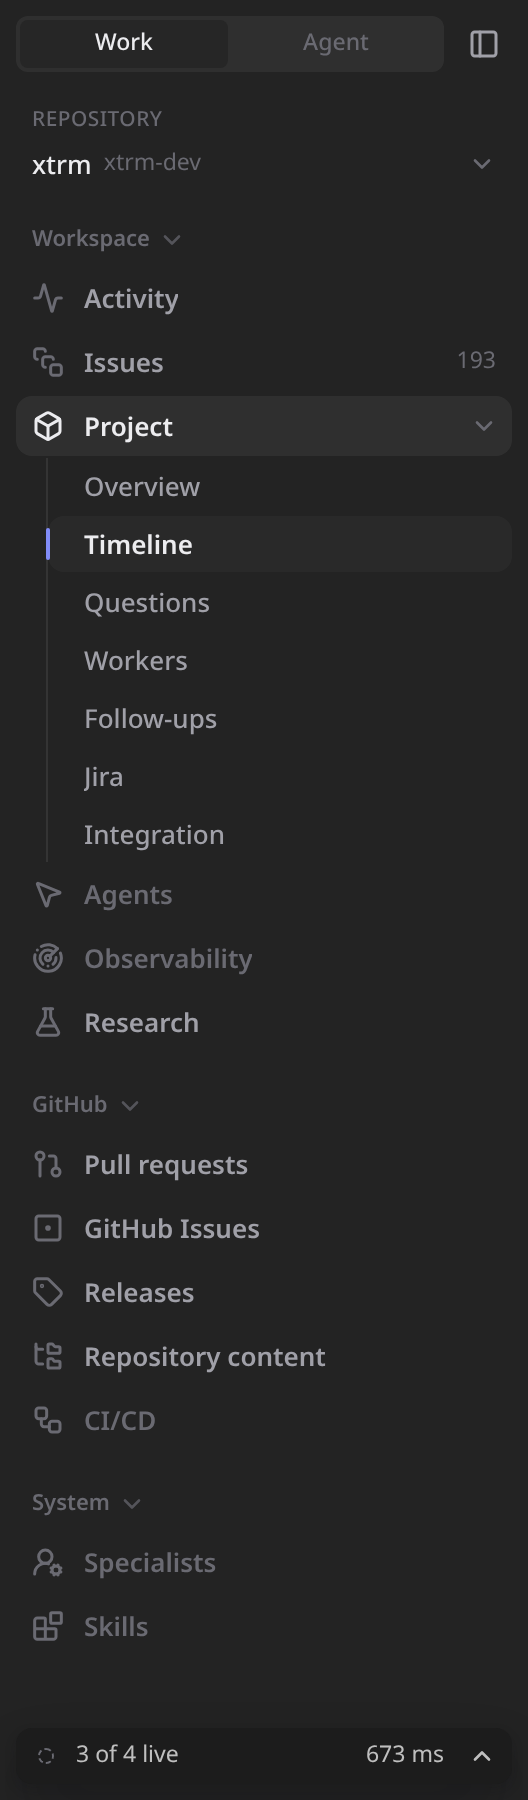
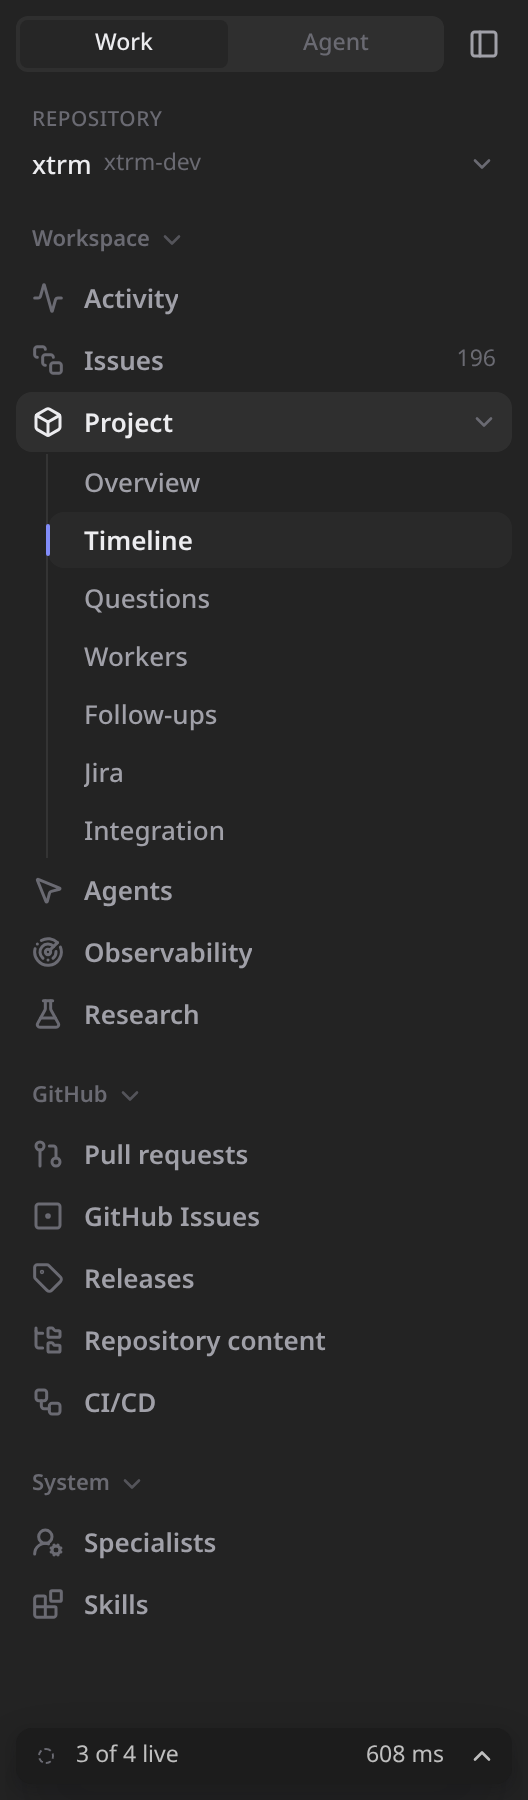
fix(xtrm-app): deferred rows keep readable ink at both rail levels (XTRM-854)

diff --git a/packages/xtrm-app/src/ui/sidebar.tsx b/packages/xtrm-app/src/ui/sidebar.tsx
@@ -62,6 +62,8 @@ export function SidebarRow({
       selected={selected}
       onActivate={onActivate}
       actions={actions}
+      // Deferred is a fact for the surface, not a fainter ink: ink-faint fails 4.5:1 at 13px on the sidebar.
+      data-deferred={deferred || undefined}
       // ArrowRight expands and ArrowLeft collapses, the same keys as the issue-tree rows (§4.1).
       onKeyDown={
         onToggle
@@ -79,7 +81,7 @@ export function SidebarRow({
       className={cx("h-[30px]", selected ? "bg-pressed text-ink" : "text-ink-muted")}
     >
       <Icon name={icon} size="nav" className={selected ? "text-ink" : "text-ink-faint"} />
-      <span className={cx("truncate font-semibold", deferred && "text-ink-faint")}>{label}</span>
+      <span className="truncate font-semibold">{label}</span>
       {status && <StatusDot tone={status.tone} label={status.label} />}
       {count != null && <span className={cx("text-xs text-ink-faint tabular group-hover/row:hidden group-focus-within/row:hidden", !onToggle && "ml-auto")}>{count}</span>}
       {onToggle && (

diff --git a/packages/xtrm-app/src/ui/sidebar.test.tsx b/packages/xtrm-app/src/ui/sidebar.test.tsx
@@ -88,11 +88,13 @@ describe("SidebarRow", () => {
     expect(onToggle).toHaveBeenCalledTimes(2);
   });
 
-  it("dims deferred rows without changing their weight", () => {
+  it("keeps deferred rows at readable ink and marks them with data-deferred", () => {
     render(<SidebarRow icon="ci" label="CI/CD" deferred onActivate={() => {}} />);
     const label = screen.getByText("CI/CD");
-    expect(label.className).toContain("text-ink-faint");
+    // ink-faint is 2.74:1 light / 2.93:1 dark on the sidebar: below 4.5:1 for 13px text (lead ruling).
+    expect(label.className).not.toContain("text-ink-faint");
     expect(label.className).toContain("font-semibold");
+    expect(label.closest("[role='button']")?.getAttribute("data-deferred")).toBe("true");
   });
 });
 

diff --git a/packages/xtrm-app/docs/design/console-ui-system.md b/packages/xtrm-app/docs/design/console-ui-system.md
@@ -127,10 +127,11 @@ Replaces the `indent` prop of `SidebarRow` and the three hand-indented groups in
   - Child row: `h-7` (28px), **no icon**, `pl-[18px]` so the label x is 16 + 18 = 34px: the child label aligns with the parent label (the aligned label column). Label 13px, weight 500, `text-ink-muted`; count right-aligned `text-xs text-ink-faint tabular`.
   - Active child: `text-ink font-semibold bg-hover`, plus a 2px marker on the rail: `before:absolute before:-left-px before:inset-y-1.5 before:w-0.5 before:rounded-full before:bg-accent`. The marker replaces the hairline at that row; the hairline is continuous elsewhere.
   - Hover and focus: `bg-hover` on the row only; the rail does not move.
-  - Inactive child: `text-ink-muted` (5.75:1 on the light sidebar, 6.05:1 on the dark one). Deferred children are
-    not a fainter ink: `text-ink-faint` is 2.74:1 and 2.93:1 there, below the 4.5:1 minimum for 13px text, so a
-    deferred child carries `data-deferred` for the surface and stays navigable without relying on colour alone
-    (lead ruling, 2026-11-18, on the UI-2 visual review).
+  - Inactive child: `text-ink-muted` (5.75:1 on the light sidebar, 6.05:1 on the dark one).
+  - Deferred destination, at both levels: the label keeps its full ink and the row carries `data-deferred`;
+    deferred is deliberately not a fainter ink, because `text-ink-faint` is 2.74:1 and 2.93:1 on `--x-sidebar`,
+    below the 4.5:1 minimum for 13px text. A deferred destination stays navigable and its own surface states
+    what arrives later (lead ruling, 2026-11-18, on the UI-2 visual review).
   - Motion: none beyond the existing `grid-rows` collapse (150ms), disabled under `prefers-reduced-motion`.
 - **Props:**
   ```ts
